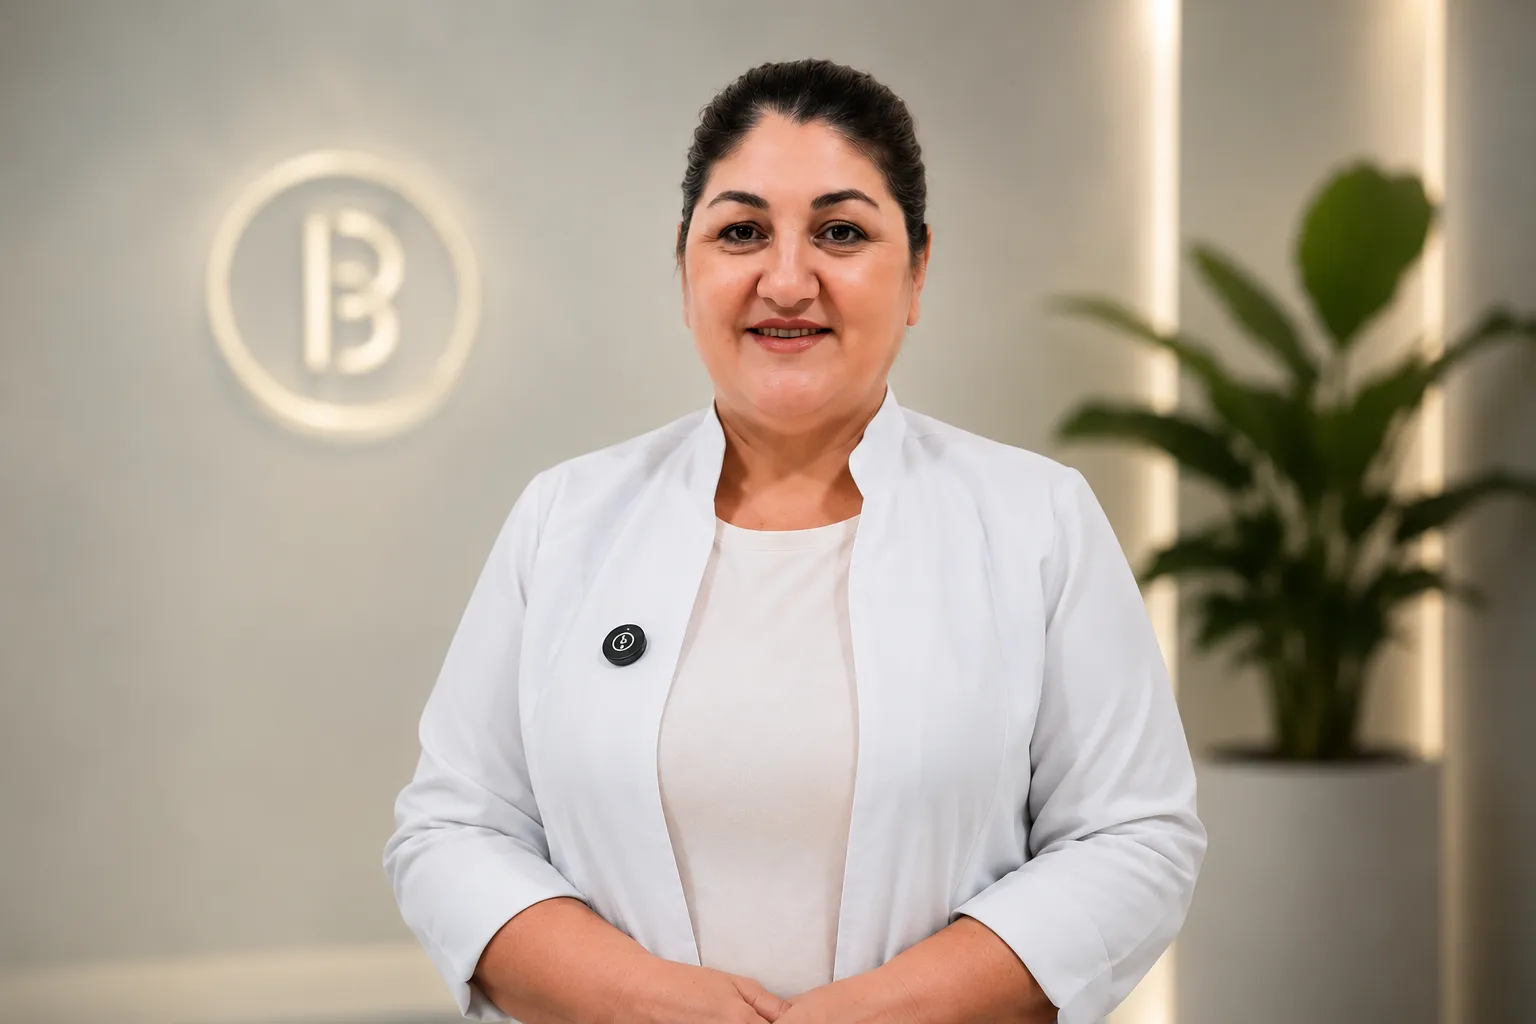
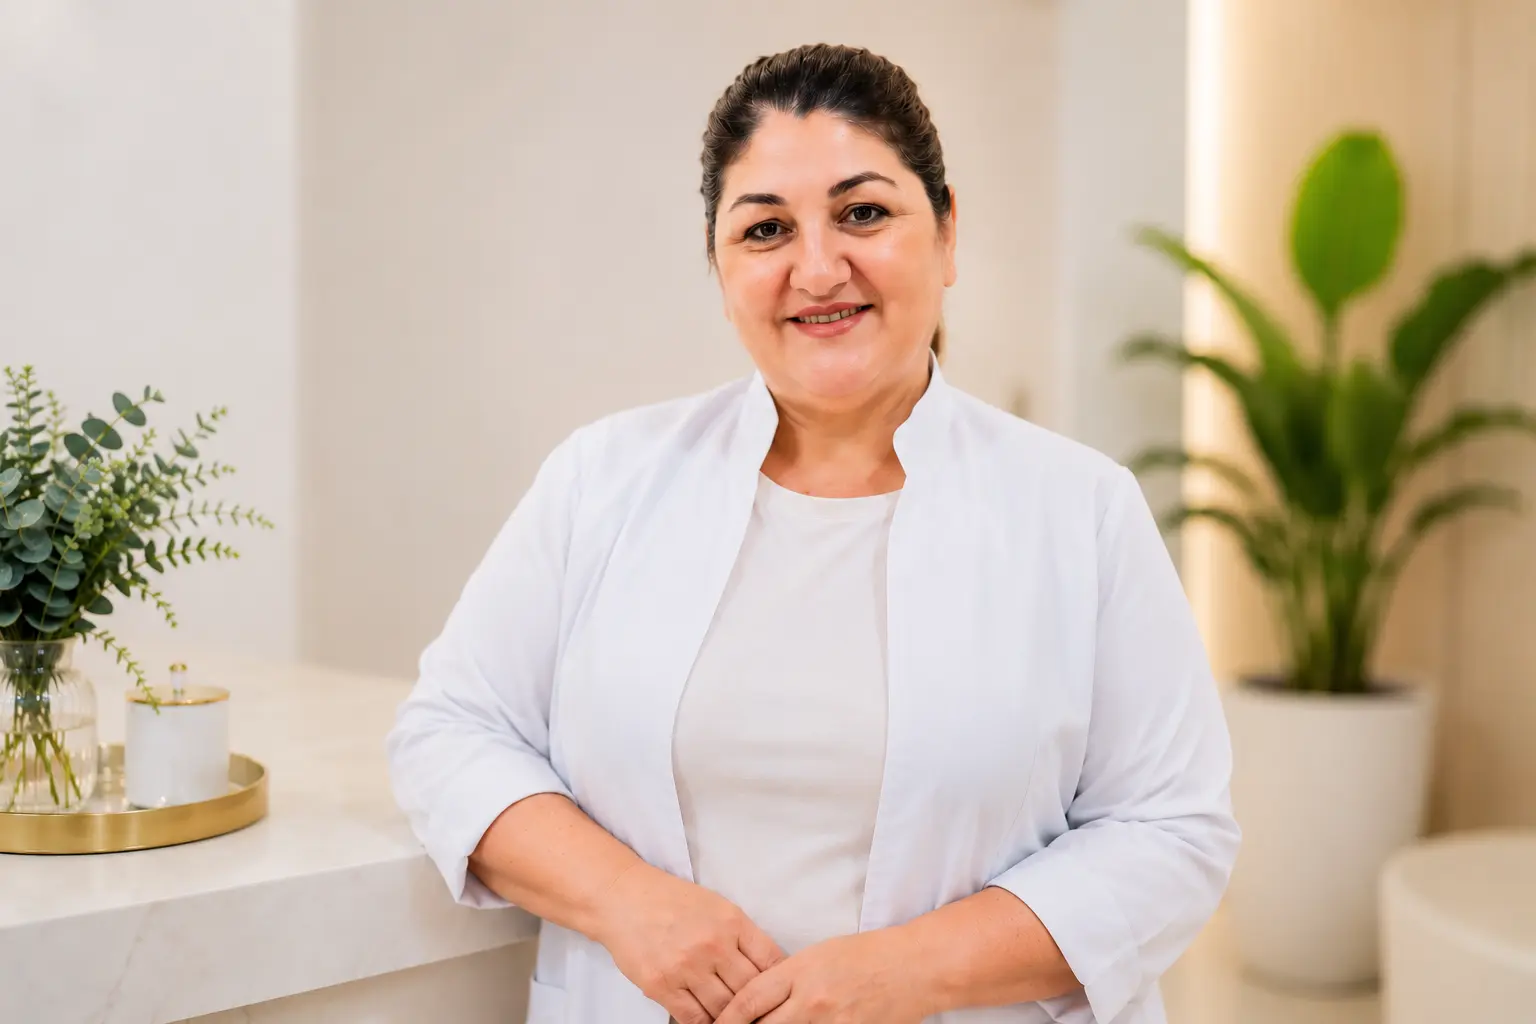
foto atualizada

diff --git a/styles/responsive.css b/styles/responsive.css
@@ -1,6 +1,6 @@
 /* ─── MOBILE FIRST — breakpoints crescentes ─── */
 
-/* Mobile — foto acima do título na hero */
+/* Mobile — foto acima do título, conteúdo centralizado */
 @media (max-width: 1023px) {
   .hero-container {
     display: flex;
@@ -10,20 +10,95 @@
   .hero-image-wrapper {
     order: -1;
   }
-}
 
-/* Base mobile — melhorias de espaçamento e legibilidade */
-@media (max-width: 479px) {
-  .hero-section {
-    padding-top: calc(86px + 36px);
-  }
-
-  .hero-title {
-    font-size: clamp(2rem, 9vw, 2.6rem);
+  .hero-content {
+    text-align: center;
+    align-items: center;
   }
 
   .hero-subheadline {
-    font-size: 1rem;
+    text-align: center;
+  }
+
+  .hero-badges {
+    justify-content: center;
+  }
+
+  .hero-ctas {
+    justify-content: center;
+  }
+}
+
+/* Mobile ≤767px — hero compacto para CTA aparecer no fold */
+@media (max-width: 767px) {
+  .hero-section {
+    padding-top: calc(136px + 12px);
+    padding-bottom: 56px;
+  }
+
+  .hero-container {
+    gap: 18px;
+  }
+
+  .hero-image-wrapper {
+    max-width: 100%;
+  }
+
+  .hero-image-frame {
+    aspect-ratio: unset;
+    height: 240px;
+  }
+
+  .hero-image-frame img {
+    object-position: center 15%;
+  }
+
+  .hero-content {
+    gap: 16px;
+  }
+
+  .elegant-seal {
+    display: none;
+  }
+
+  .hero-image-caption {
+    display: none;
+  }
+}
+
+/* Base mobile ≤479px */
+@media (max-width: 479px) {
+  .hero-section {
+    padding-top: calc(136px + 8px);
+    padding-bottom: 48px;
+  }
+
+  .hero-container {
+    gap: 14px;
+  }
+
+  .hero-image-frame {
+    height: 200px;
+  }
+
+  .hero-image-frame img {
+    object-position: center 15%;
+  }
+
+  .hero-content {
+    gap: 14px;
+  }
+
+  .hero-title {
+    font-size: clamp(1.8rem, 8vw, 2.4rem);
+  }
+
+  .hero-subheadline {
+    font-size: 0.95rem;
+  }
+
+  .hero-badges {
+    display: none;
   }
 
   .hero-ctas {

diff --git a/styles/sections.css b/styles/sections.css
@@ -712,9 +712,23 @@ section {
 }
 
 .cta-final-section .btn-primary {
-  padding: 0 44px;
-  height: 56px;
-  font-size: 1.1rem;
+  background: transparent;
+  border: 1px solid rgba(212, 175, 55, 0.55);
+  color: var(--color-brand-primary);
+  font-weight: 500;
+  padding: 0 36px;
+  height: 50px;
+  font-size: 0.92rem;
+  letter-spacing: 0.06em;
+  box-shadow: none;
+}
+
+.cta-final-section .btn-primary:hover {
+  background: var(--color-brand-primary);
+  border-color: var(--color-brand-primary);
+  color: #0A0A0A;
+  box-shadow: 0 4px 24px rgba(212, 175, 55, 0.22);
+  transform: translateY(-2px);
 }
 
 .cta-final-secondary {

diff --git a/index.html b/index.html
@@ -1006,15 +1006,6 @@
             Agendar Consulta Pelo WhatsApp
           </a>
 
-          <a
-            href="https://instagram.com/roselinharesestetica"
-            class="cta-final-secondary"
-            target="_blank"
-            rel="noopener noreferrer"
-            aria-label="Ver antes e depois no Instagram @roselinharesestetica"
-          >
-            Ou veja nosso antes e depois no @roselinharesestetica
-          </a>
         </div>
       </div>
     </section>